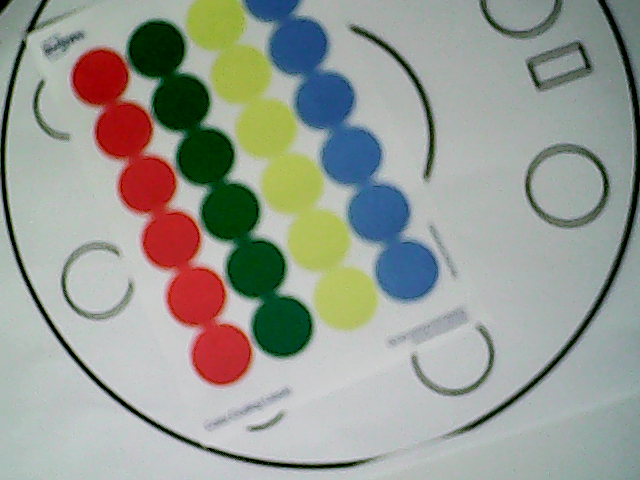
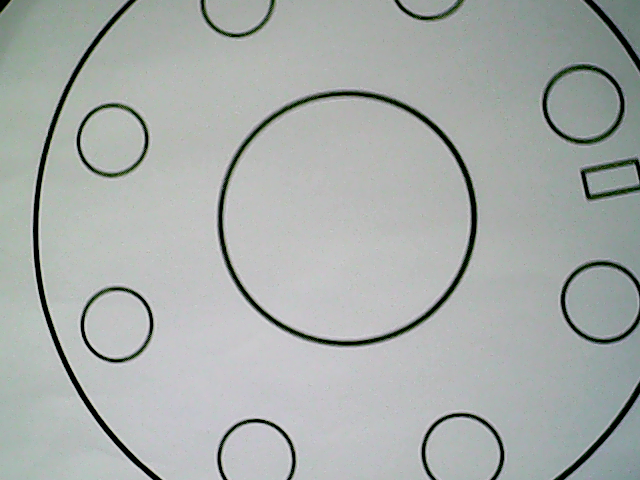
Added Binary Conversion and Image Subtraction

diff --git a/lab1/cam_interfacing.m b/lab1/cam_interfacing.m
@@ -8,18 +8,20 @@ cam = init_cam(webcamlist,USB_CAM_NAME);
 
 %% Capturing and Saving BG Image
 img = snapshot(cam);
-figure();
-imshow(img);
-title('Background Image Original');
+display_pic(img,'Background Image Original');
 
 %% Binary Image processing
 imwrite(img, bg_filename); %saves image to filename provided
+binary_img = im2bw(img);
+display_pic(binary_img,'Background Image Binary');
 
-%Image_Orig = imread(img);
-%Image_Background = imread('NoiseBackground.png');
-%[height,width,depth] = size(Image_Orig);
-%[height_b,width_b,depth_b] = size(Image_Background
-
+%% testing image subtraction
+pause(5); %temporary measure to manually change background
+img = snapshot(cam);
+display_pic(img,'new shot created');
+noise_removed = imread(bg_filename)-img;
+display_pic(noise_removed,'background - new image');
+display_pic(im2bw(noise_removed), 'noise removed binary');
 %% Init Program
 function prog_init()
     close all;
@@ -32,4 +34,10 @@ function cam_profile = init_cam(webcam_list,cam_name)
     %searches webcam list camera name provided, then returns camera struct
     cam_profile = webcam(find(contains(webcam_list,cam_name)));
     cam_profile.Brightness = 100; %scale brightness of image (idk what max val is -Uche)
+end
+%% Show any picture taken
+function display_pic(img,fig_title)
+    figure();
+    imshow(img);
+    title(fig_title);
 end
